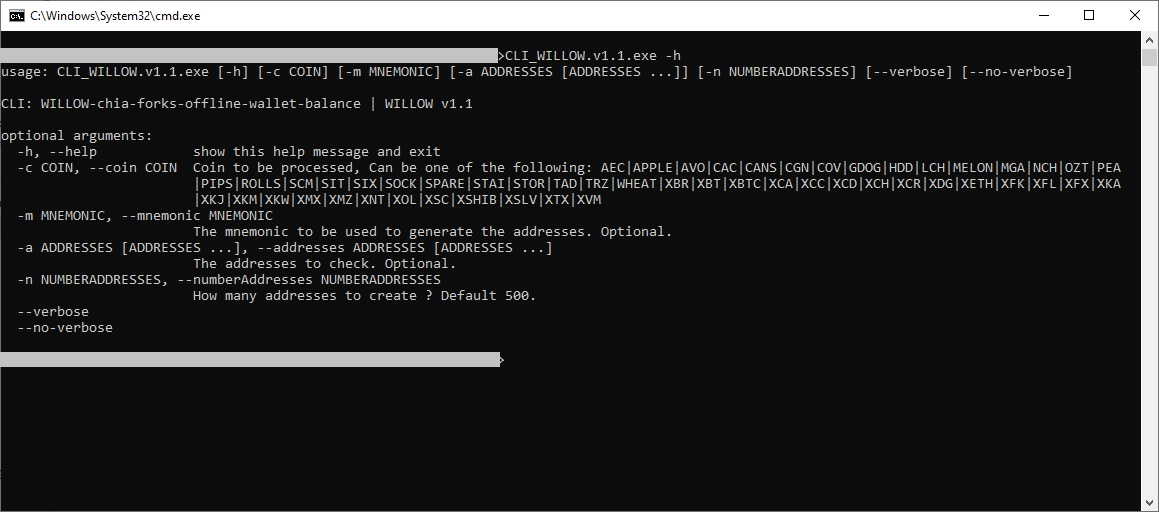
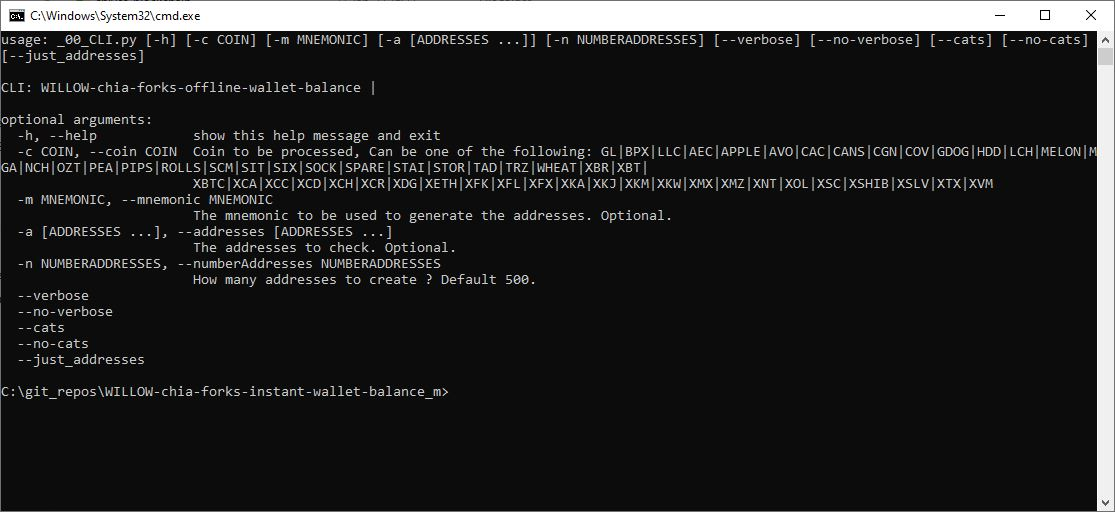
ReadMe updates

diff --git a/README.md b/README.md
@@ -1,7 +1,9 @@
 # WILLOW-chia-forks-instant-wallet-balance
 Collection of scripts used to
-- check the balance of a wallet, including ALL the addresses of that wallet, using the mnemonic
-- check the balance of single/multiple addresses, without the need of a mnemonic
+- check the asset's balance of a wallet, including ALL the addresses of that wallet, using the mnemonic
+- check the asset's balance of single/multiple addresses, without the need of a mnemonic
+- check the CATs balance of a wallet, including ALL the addresses of that wallet, using the mnemonic
+- check the CATs balance of single/multiple addresses, without the need of a mnemonic
 
 You need to have the full node database on your computer for the tool to work.
 
@@ -11,12 +13,9 @@ You need to have the full node database on your computer for the tool to work.
 
 # High level overview
 - The script has 2 main functionalities:
-    - it can generate the first 500 (default) addresses of a mnemonic
+    - it can generate the first x addresses of a mnemonic
     - it can query the full node db and get the balance of all those addresses, thus getting the coin balance of the whole wallet
-    
-- !!! WARNING !!!
-   - Because the tool needs your mnemonic to generate all the addresses, be REALLY CAREFUL not to accidentally share the mnemonic
-   - The backend is posted here on github and I tried not to obfuscate anything so PLEASE feel free to review the code before you run it.
+    - it can detect both the asset's balance and the CATs of a given address/ mnemonic
 
 # Feedback/ Contribution
 - Please post any issues you encountered or any feature requests in the issues tab.
